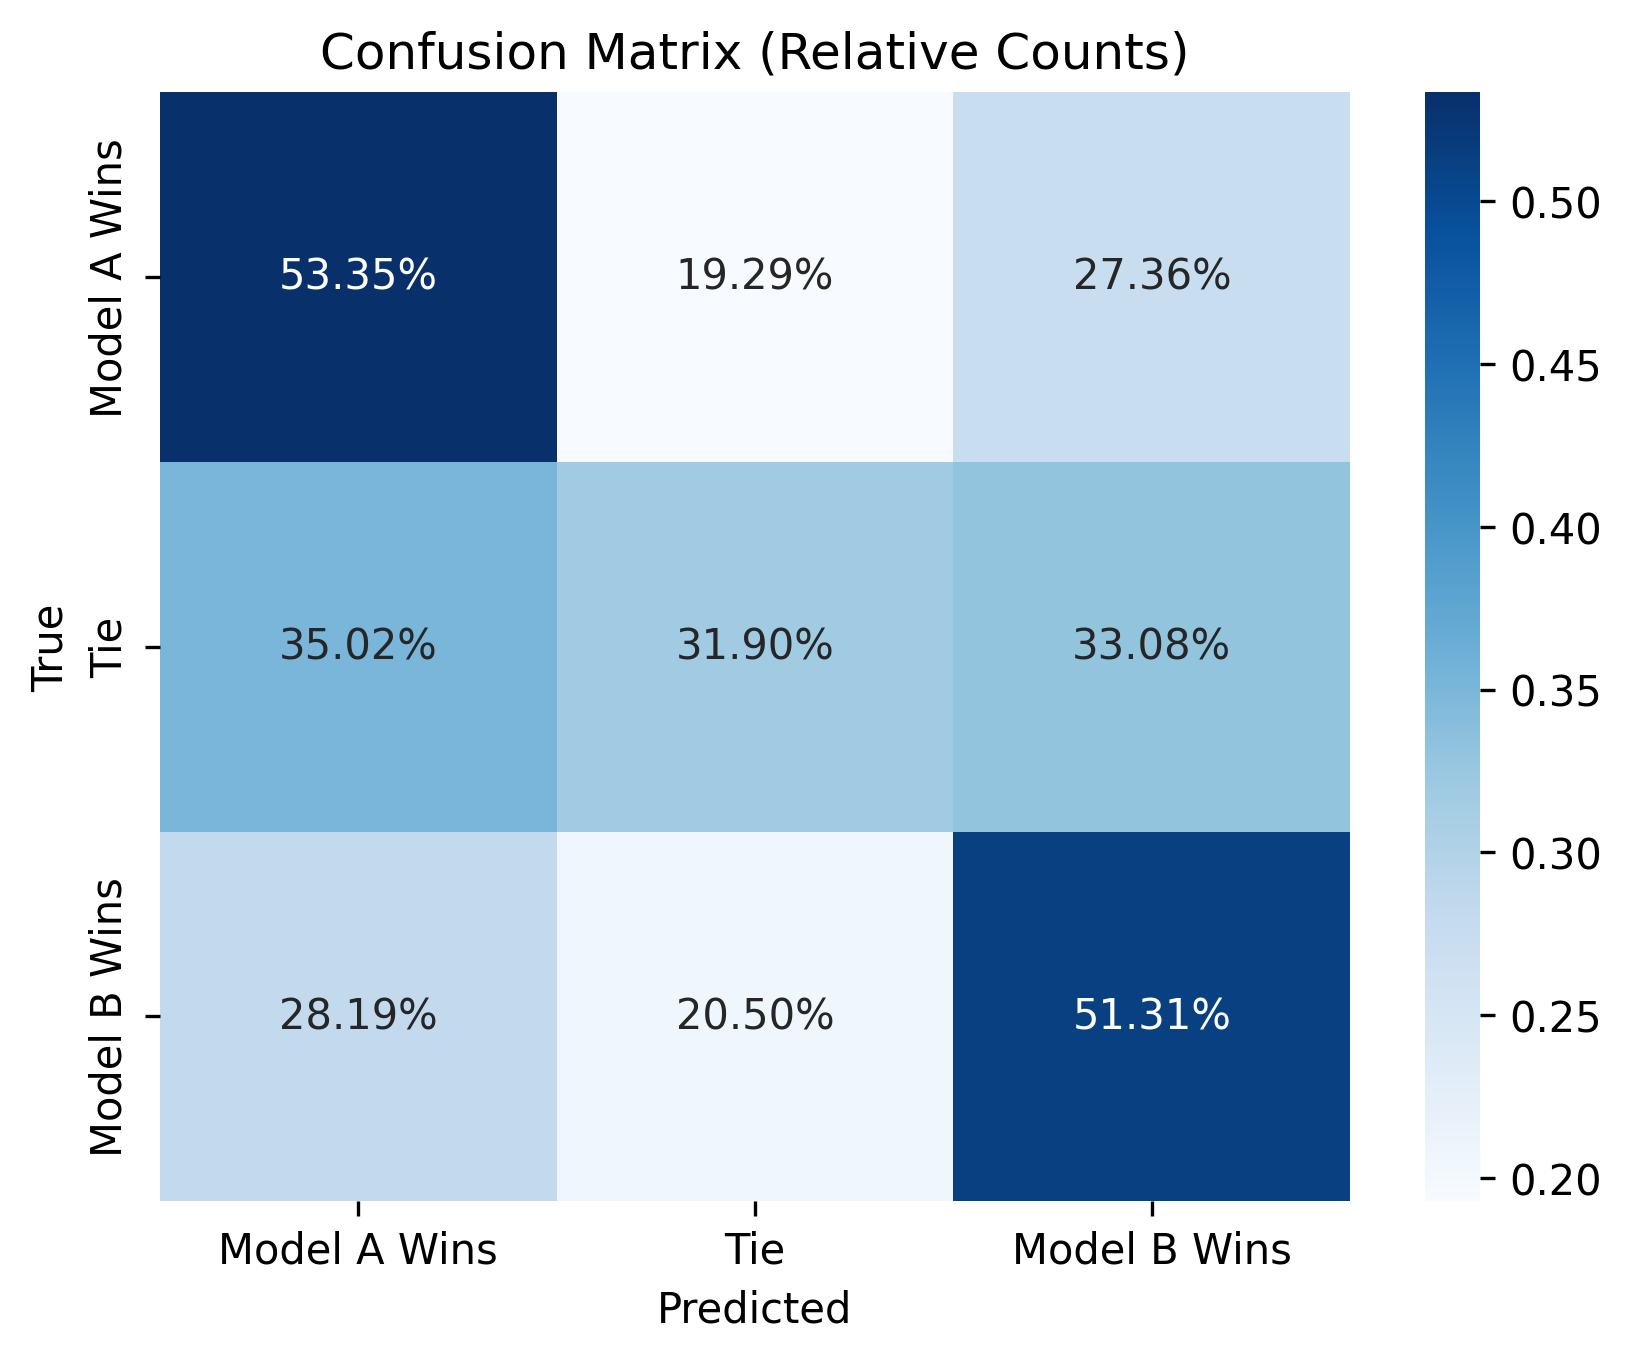
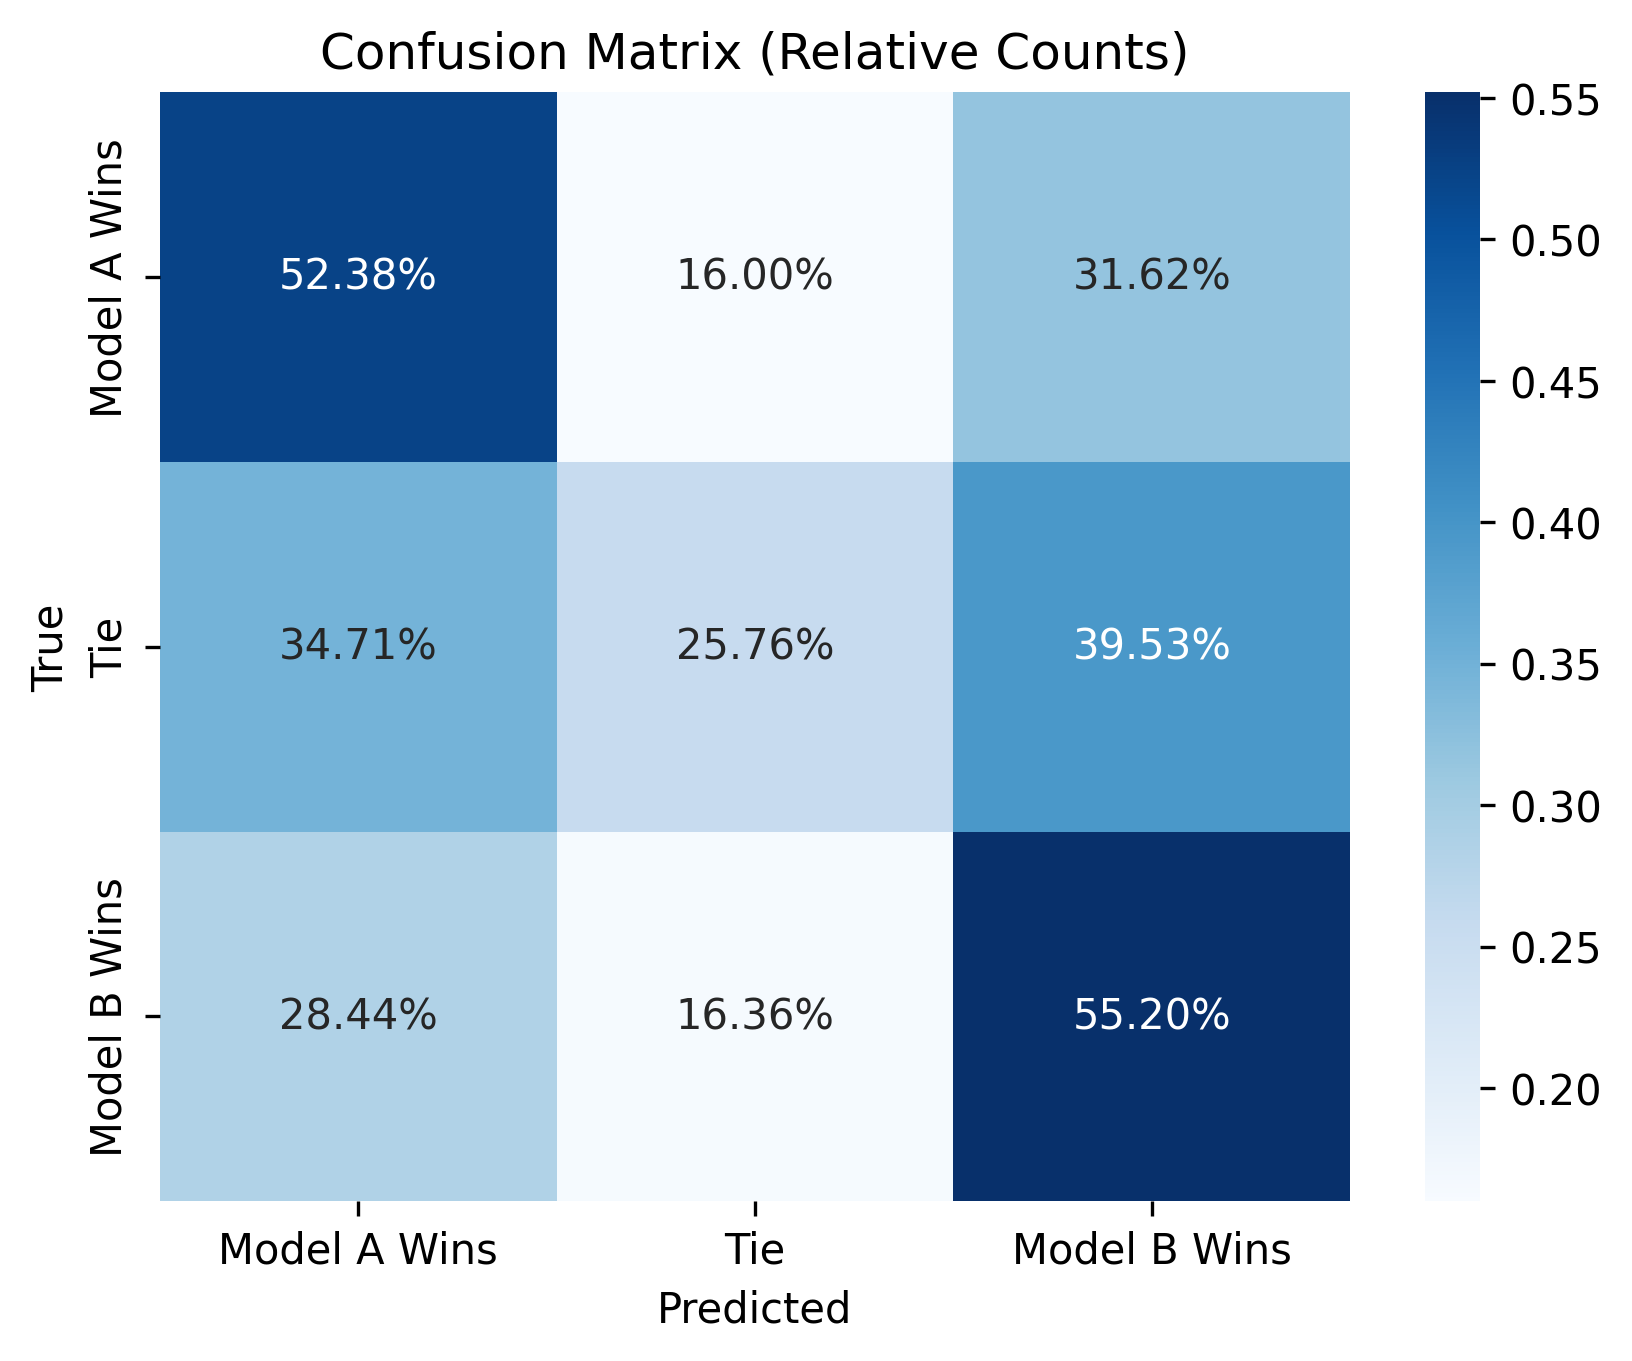
added all difference and ratio features for each dyad

diff --git a/main.py b/main.py
@@ -11,14 +11,15 @@ from sklearn.preprocessing import StandardScaler
 import textstat
 
 ## TODO:
-# do differences and ratios for all combinations
-# unbias dataset: with the input triplets of resp_a, resp_b, prompt and mod_a_wins, mod_b_wins, tie, create a
-# reversed/flipped dataset and add this to the training set
+# streamline code (incl. print statements and comments)
+# check for improving computational efficiency
+# unbias dataset
 # try different models
 # feature importance plot
-# streamline code
+# update ipython notebook for kaggle
 
 def load_data(zip_file_path):
+    print("Loading data...")
     try:
         # First attempt to load data from the zip file (local environment)
         with zipfile.ZipFile(zip_file_path, 'r') as z:
@@ -33,77 +34,110 @@ def load_data(zip_file_path):
         train_df = pd.read_csv('/kaggle/input/lmsys-chatbot-arena/train.csv')
         test_df = pd.read_csv('/kaggle/input/lmsys-chatbot-arena/test.csv')
         print("Data loaded from /input folder.")
+    print(f"Train shape: {train_df.shape}, Test shape: {test_df.shape}")
     return train_df, test_df
 
-def add_basic_features(df):
-    for col in ['prompt', 'response_a', 'response_b']:
+def calculate_features(df):
+    inputs = ['prompt', 'response_a', 'response_b']
+    print("Calculating basic features for each input...")
+
+    feature_dict = {}  # Dictionary to hold all new features
+
+    for col in inputs:
+        print(f"Calculating features for {col}...")
+
         # Character Count
-        df[f'{col}_char_count'] = df[col].str.len()
+        feature_dict[f'{col}_char_count'] = df[col].str.len()
 
         # Word List and Word Count
-        df[f'{col}_word_list'] = df[col].str.findall(r'\b\w+\b')
-        df[f'{col}_word_count'] = df[f'{col}_word_list'].str.len()
+        word_list = df[col].str.findall(r'\b\w+\b')
+        feature_dict[f'{col}_word_list'] = word_list
+        feature_dict[f'{col}_word_count'] = word_list.str.len()
 
         # Sentence Count
-        df[f'{col}_sentence_count'] = df[col].str.count(r'[.!?]+')
-        df[f'{col}_sentence_count'] = df[f'{col}_sentence_count'].replace(0, 1)  # Avoid division by zero
+        sentence_count = df[col].str.count(r'[.!?]+')
+        sentence_count = sentence_count.replace(0, 1)  # Avoid division by zero
+        feature_dict[f'{col}_sentence_count'] = sentence_count
 
         # Average Word Length
-        df[f'{col}_avg_word_length'] = df[f'{col}_char_count'] / df[f'{col}_word_count'].replace(0, np.nan)
+        feature_dict[f'{col}_avg_word_length'] = feature_dict[f'{col}_char_count'] / feature_dict[f'{col}_word_count'].replace(0, np.nan)
 
         # Average Sentence Length (in words)
-        df[f'{col}_avg_sentence_length'] = df[f'{col}_word_count'] / df[f'{col}_sentence_count']
+        feature_dict[f'{col}_avg_sentence_length'] = feature_dict[f'{col}_word_count'] / sentence_count
 
         # Punctuation Counts
-        df[f'{col}_exclamation_count'] = df[col].str.count('!')
-        df[f'{col}_question_count'] = df[col].str.count(r'\?')
-        df[f'{col}_comma_count'] = df[col].str.count(',')
-        df[f'{col}_period_count'] = df[col].str.count(r'\.')
-        df[f'{col}_semicolon_count'] = df[col].str.count(';')
-        df[f'{col}_colon_count'] = df[col].str.count(':')
+        feature_dict[f'{col}_exclamation_count'] = df[col].str.count('!')
+        feature_dict[f'{col}_question_count'] = df[col].str.count(r'\?')
+        feature_dict[f'{col}_comma_count'] = df[col].str.count(',')
+        feature_dict[f'{col}_period_count'] = df[col].str.count(r'\.')
+        feature_dict[f'{col}_semicolon_count'] = df[col].str.count(';')
+        feature_dict[f'{col}_colon_count'] = df[col].str.count(':')
 
         # Personal Pronoun Counts
-        df[f'{col}_pronoun_I_count'] = df[col].str.count(r'\bI\b', flags=re.IGNORECASE)
-        df[f'{col}_pronoun_you_count'] = df[col].str.count(r'\byou\b', flags=re.IGNORECASE)
-        df[f'{col}_pronoun_we_count'] = df[col].str.count(r'\bwe\b', flags=re.IGNORECASE)
+        feature_dict[f'{col}_pronoun_I_count'] = df[col].str.count(r'\bI\b', flags=re.IGNORECASE)
+        feature_dict[f'{col}_pronoun_you_count'] = df[col].str.count(r'\byou\b', flags=re.IGNORECASE)
+        feature_dict[f'{col}_pronoun_we_count'] = df[col].str.count(r'\bwe\b', flags=re.IGNORECASE)
 
         # Type-Token Ratio
-        df[f'{col}_type_token_ratio'] = df[f'{col}_word_list'].apply(lambda x: len(set(x)) / max(len(x), 1))
+        feature_dict[f'{col}_type_token_ratio'] = word_list.apply(lambda x: len(set(x)) / max(len(x), 1))
 
         # Readability Scores using textstat
-        df[f'{col}_flesch_reading_ease'] = df[col].apply(lambda text: textstat.flesch_reading_ease(text) if isinstance(text, str) else np.nan)
-        df[f'{col}_flesch_kincaid_grade'] = df[col].apply(lambda text: textstat.flesch_kincaid_grade(text) if isinstance(text, str) else np.nan)
+        feature_dict[f'{col}_flesch_reading_ease'] = df[col].apply(lambda text: textstat.flesch_reading_ease(text) if isinstance(text, str) else np.nan)
+        feature_dict[f'{col}_flesch_kincaid_grade'] = df[col].apply(lambda text: textstat.flesch_kincaid_grade(text) if isinstance(text, str) else np.nan)
 
-    # Differences between responses (Model A - Model B)
-    df['char_count_difference'] = df['response_a_char_count'] - df['response_b_char_count']
-    df['word_count_difference'] = df['response_a_word_count'] - df['response_b_word_count']
-    df['sentence_count_difference'] = df['response_a_sentence_count'] - df['response_b_sentence_count']
-    df['avg_word_length_difference'] = df['response_a_avg_word_length'] - df['response_b_avg_word_length']
-    df['avg_sentence_length_difference'] = df['response_a_avg_sentence_length'] - df['response_b_avg_sentence_length']
-    df['exclamation_count_difference'] = df['response_a_exclamation_count'] - df['response_b_exclamation_count']
-    df['question_count_difference'] = df['response_a_question_count'] - df['response_b_question_count']
-    df['pronoun_I_count_difference'] = df['response_a_pronoun_I_count'] - df['response_b_pronoun_I_count']
-    df['pronoun_you_count_difference'] = df['response_a_pronoun_you_count'] - df['response_b_pronoun_you_count']
-    df['type_token_ratio_difference'] = df['response_a_type_token_ratio'] - df['response_b_type_token_ratio']
-    df['flesch_reading_ease_difference'] = df['response_a_flesch_reading_ease'] - df['response_b_flesch_reading_ease']
-    df['flesch_kincaid_grade_difference'] = df['response_a_flesch_kincaid_grade'] - df['response_b_flesch_kincaid_grade']
+    # Convert the feature dictionary to a DataFrame and concatenate
+    feature_df = pd.DataFrame(feature_dict)
+    df = pd.concat([df.reset_index(drop=True), feature_df.reset_index(drop=True)], axis=1)
 
-    # Ratios involving prompt and responses
-    df['response_a_char_count_to_prompt_char_count_ratio'] = df['response_a_char_count'] / df['prompt_char_count'].replace(0, np.nan)
-    df['response_b_char_count_to_prompt_char_count_ratio'] = df['response_b_char_count'] / df['prompt_char_count'].replace(0, np.nan)
-
-    # Ratios between responses (Model A to Model B)
-    df['response_a_char_count_to_response_b_char_count_ratio'] = df['response_a_char_count'] / df['response_b_char_count'].replace(0, np.nan)
-    df['response_a_word_count_to_response_b_word_count_ratio'] = df['response_a_word_count'] / df['response_b_word_count'].replace(0, np.nan)
-    df['response_a_sentence_count_to_response_b_sentence_count_ratio'] = df['response_a_sentence_count'] / df['response_b_sentence_count'].replace(0, np.nan)
-
-    # Clean up temporary columns
+    # Remove temporary columns like word lists
+    print([col for col in df.columns if '_word_list' in col])
     df.drop(columns=[col for col in df.columns if '_word_list' in col], inplace=True)
 
+    print("Finished calculating basic features.")
+    return df
+
+def calculate_differences_and_ratios(df):
+    print("Calculating differences and ratios between inputs...")
+
+    pairs = [('prompt', 'response_a'), ('prompt', 'response_b'), ('response_a', 'response_b')]
+
+    basic_features = ['char_count', 'word_count', 'sentence_count', 'avg_word_length', 'avg_sentence_length',
+                      'exclamation_count', 'question_count', 'comma_count', 'period_count', 'semicolon_count',
+                      'colon_count', 'pronoun_I_count', 'pronoun_you_count', 'pronoun_we_count', 'type_token_ratio',
+                      'flesch_reading_ease', 'flesch_kincaid_grade']
+
+    diff_ratio_dict = {}  # Dictionary to hold difference and ratio features
+
+    for feature in basic_features:
+        for col1, col2 in pairs:
+            diff = df[f'{col1}_{feature}'] - df[f'{col2}_{feature}']
+            ratio = df[f'{col1}_{feature}'] / df[f'{col2}_{feature}'].replace(0, np.nan)
+
+            # Add to the dictionary with full arrays
+            diff_ratio_dict[f'{col1}_{col2}_{feature}_difference'] = diff
+            diff_ratio_dict[f'{col1}_{col2}_{feature}_ratio'] = ratio
+
+    # Convert the difference and ratio dictionary to a DataFrame
+    diff_ratio_df = pd.DataFrame(diff_ratio_dict)
+
+    # Ensure the index is passed explicitly to avoid scalar errors
+    diff_ratio_df.index = df.index
+
+    # Concatenate the differences and ratios DataFrame to the original DataFrame
+    df = pd.concat([df.reset_index(drop=True), diff_ratio_df.reset_index(drop=True)], axis=1)
+
+    print("Finished calculating differences and ratios.")
+    return df
+
+def add_basic_features(df):
+    print("Adding basic features...")
+    df = calculate_features(df)
+    df = calculate_differences_and_ratios(df)
+    print("Finished adding features.")
     return df
 
 def prepare_data(train_df):
-    # Select features
+    print("Preparing data for training...")
     feature_cols = [col for col in train_df.columns if any(keyword in col for keyword in [
         '_char_count', '_word_count', '_sentence_count',
         '_avg_word_length', '_avg_sentence_length',
@@ -113,87 +147,50 @@ def prepare_data(train_df):
         '_difference', '_ratio'
     ])]
 
-    # Multi-class target: 0 = Model A wins, 1 = Model B wins, 2 = Tie
-    def get_target(row):
-        if row['winner_model_a'] == 1:
-            return 0  # Model A wins
-        elif row['winner_model_b'] == 1:
-            return 1  # Model B wins
-        else:
-            return 2  # Tie
-
-    train_df['target'] = train_df.apply(get_target, axis=1)
-
+    train_df['target'] = train_df.apply(lambda row: 0 if row['winner_model_a'] == 1 else (1 if row['winner_model_b'] == 1 else 2), axis=1)
     X = train_df[feature_cols]
     y = train_df['target']
-
-    # Handle any NaN values
     X = X.fillna(0)
 
-    # Scale the features
     scaler = StandardScaler()
     X_scaled = scaler.fit_transform(X)
 
-    X_train, X_val, y_train, y_val = train_test_split(
-        X_scaled, y, test_size=0.2, random_state=42, stratify=y)
-
+    X_train, X_val, y_train, y_val = train_test_split(X_scaled, y, test_size=0.2, random_state=42, stratify=y)
+    print(f"Data prepared: {X_train.shape[0]} training samples, {X_val.shape[0]} validation samples.")
     return X_train, X_val, y_train, y_val, scaler
 
-
 def train_model(X_train, y_train):
-    # Use LogisticRegression with multi-class support
+    print("Training model...")
     model = LogisticRegression(solver='lbfgs', max_iter=2000)
     model.fit(X_train, y_train)
+    print("Model training complete.")
     return model
 
-
 def evaluate_model(model, X_val, y_val):
-    # Predict probabilities for the validation set
+    print("Evaluating model...")
     y_val_pred_proba = model.predict_proba(X_val)
-
-    # Compute the multi-class log loss
     loss = log_loss(y_val, y_val_pred_proba)
     print(f'Validation Log Loss: {loss}')
-
-    # Predict actual class labels
     y_val_pred = model.predict(X_val)
-
-    # Confusion Matrix
     cm = confusion_matrix(y_val, y_val_pred)
     plot_confusion_matrix(cm)
-
+    print("Model evaluation complete.")
 
 def plot_confusion_matrix(cm, filename='confusion_matrix.png'):
-    # Rearrange the confusion matrix to have "Tie" in the middle
-    # Original order: [Model A Wins, Model B Wins, Tie]
-    # New order: [Model A Wins, Tie, Model B Wins]
     reordered_indices = [0, 2, 1]
     reordered_cm = cm[reordered_indices][:, reordered_indices]
-
-    # Normalize the confusion matrix by dividing each row by the sum of that row
     cm_relative = reordered_cm.astype('float') / reordered_cm.sum(axis=1)[:, np.newaxis]
-
-    # Labels for the confusion matrix
     labels = ['Model A Wins', 'Tie', 'Model B Wins']
-
-    # Create heatmap for confusion matrix with relative counts
     sns.heatmap(cm_relative, annot=True, fmt='.2%', cmap='Blues', xticklabels=labels, yticklabels=labels)
     plt.xlabel('Predicted')
     plt.ylabel('True')
     plt.title('Confusion Matrix (Relative Counts)')
-
-    # Save the plot to a file
     plt.savefig(filename, dpi=300, bbox_inches='tight')
-
-    # Clear the plot to avoid overlapping plots in future calls
     plt.clf()
-
+    print(f"Confusion matrix saved as {filename}.")
 
 def make_predictions(model, test_df, scaler):
-    # Add features to the test set
-    test_df = add_basic_features(test_df)
-
-    # Select the same features used for training
+    print("Making predictions on the test set...")
     feature_cols = [col for col in test_df.columns if any(keyword in col for keyword in [
         '_char_count', '_word_count', '_sentence_count',
         '_avg_word_length', '_avg_sentence_length',
@@ -202,53 +199,31 @@ def make_predictions(model, test_df, scaler):
         '_pronoun_we_count', '_type_token_ratio', '_flesch_reading_ease', '_flesch_kincaid_grade',
         '_difference', '_ratio'
     ])]
-
-    # Handle any NaN values
     X_test = test_df[feature_cols].fillna(0)
-
-    # Scale the test data using the same scaler
     X_test_scaled = scaler.transform(X_test)
-
-    # Predict probabilities for the test set
     y_test_pred_proba = model.predict_proba(X_test_scaled)
-
-    # Create a submission dataframe
     submission_df = test_df[['id']].copy()
-    submission_df['winner_model_a'] = y_test_pred_proba[:, 0]  # Probability of Model A winning
-    submission_df['winner_model_b'] = y_test_pred_proba[:, 1]  # Probability of Model B winning
-    submission_df['winner_model_tie'] = y_test_pred_proba[:, 2]  # Probability of a tie
-
+    submission_df['winner_model_a'] = y_test_pred_proba[:, 0]
+    submission_df['winner_model_b'] = y_test_pred_proba[:, 1]
+    submission_df['winner_model_tie'] = y_test_pred_proba[:, 2]
+    print("Test set predictions complete.")
     return submission_df
-
 
 def create_submission_file(submission_df, filename='submission.csv'):
     submission_df.to_csv(filename, index=False)
-    print(f'Submission file saved as {filename}')
-
+    print(f"Submission file saved as {filename}")
 
 def main():
-    # Load dataset
+    print("Starting main program...")
     train_df, test_df = load_data('data/lmsys-chatbot-arena.zip')
-
-    # Add features
+    print("Adding features to the train and test data...")
     train_df = add_basic_features(train_df)
     test_df = add_basic_features(test_df)
-
-    # Prepare data for training
     X_train, X_val, y_train, y_val, scaler = prepare_data(train_df)
-
-    # Train model
     model = train_model(X_train, y_train)
-
-    # Evaluate model
     evaluate_model(model, X_val, y_val)
-
-    # Prepare test data
     submission = make_predictions(model, test_df, scaler)
-
-    # Create and save the submission file
     create_submission_file(submission)
-
 
 if __name__ == '__main__':
     main()
